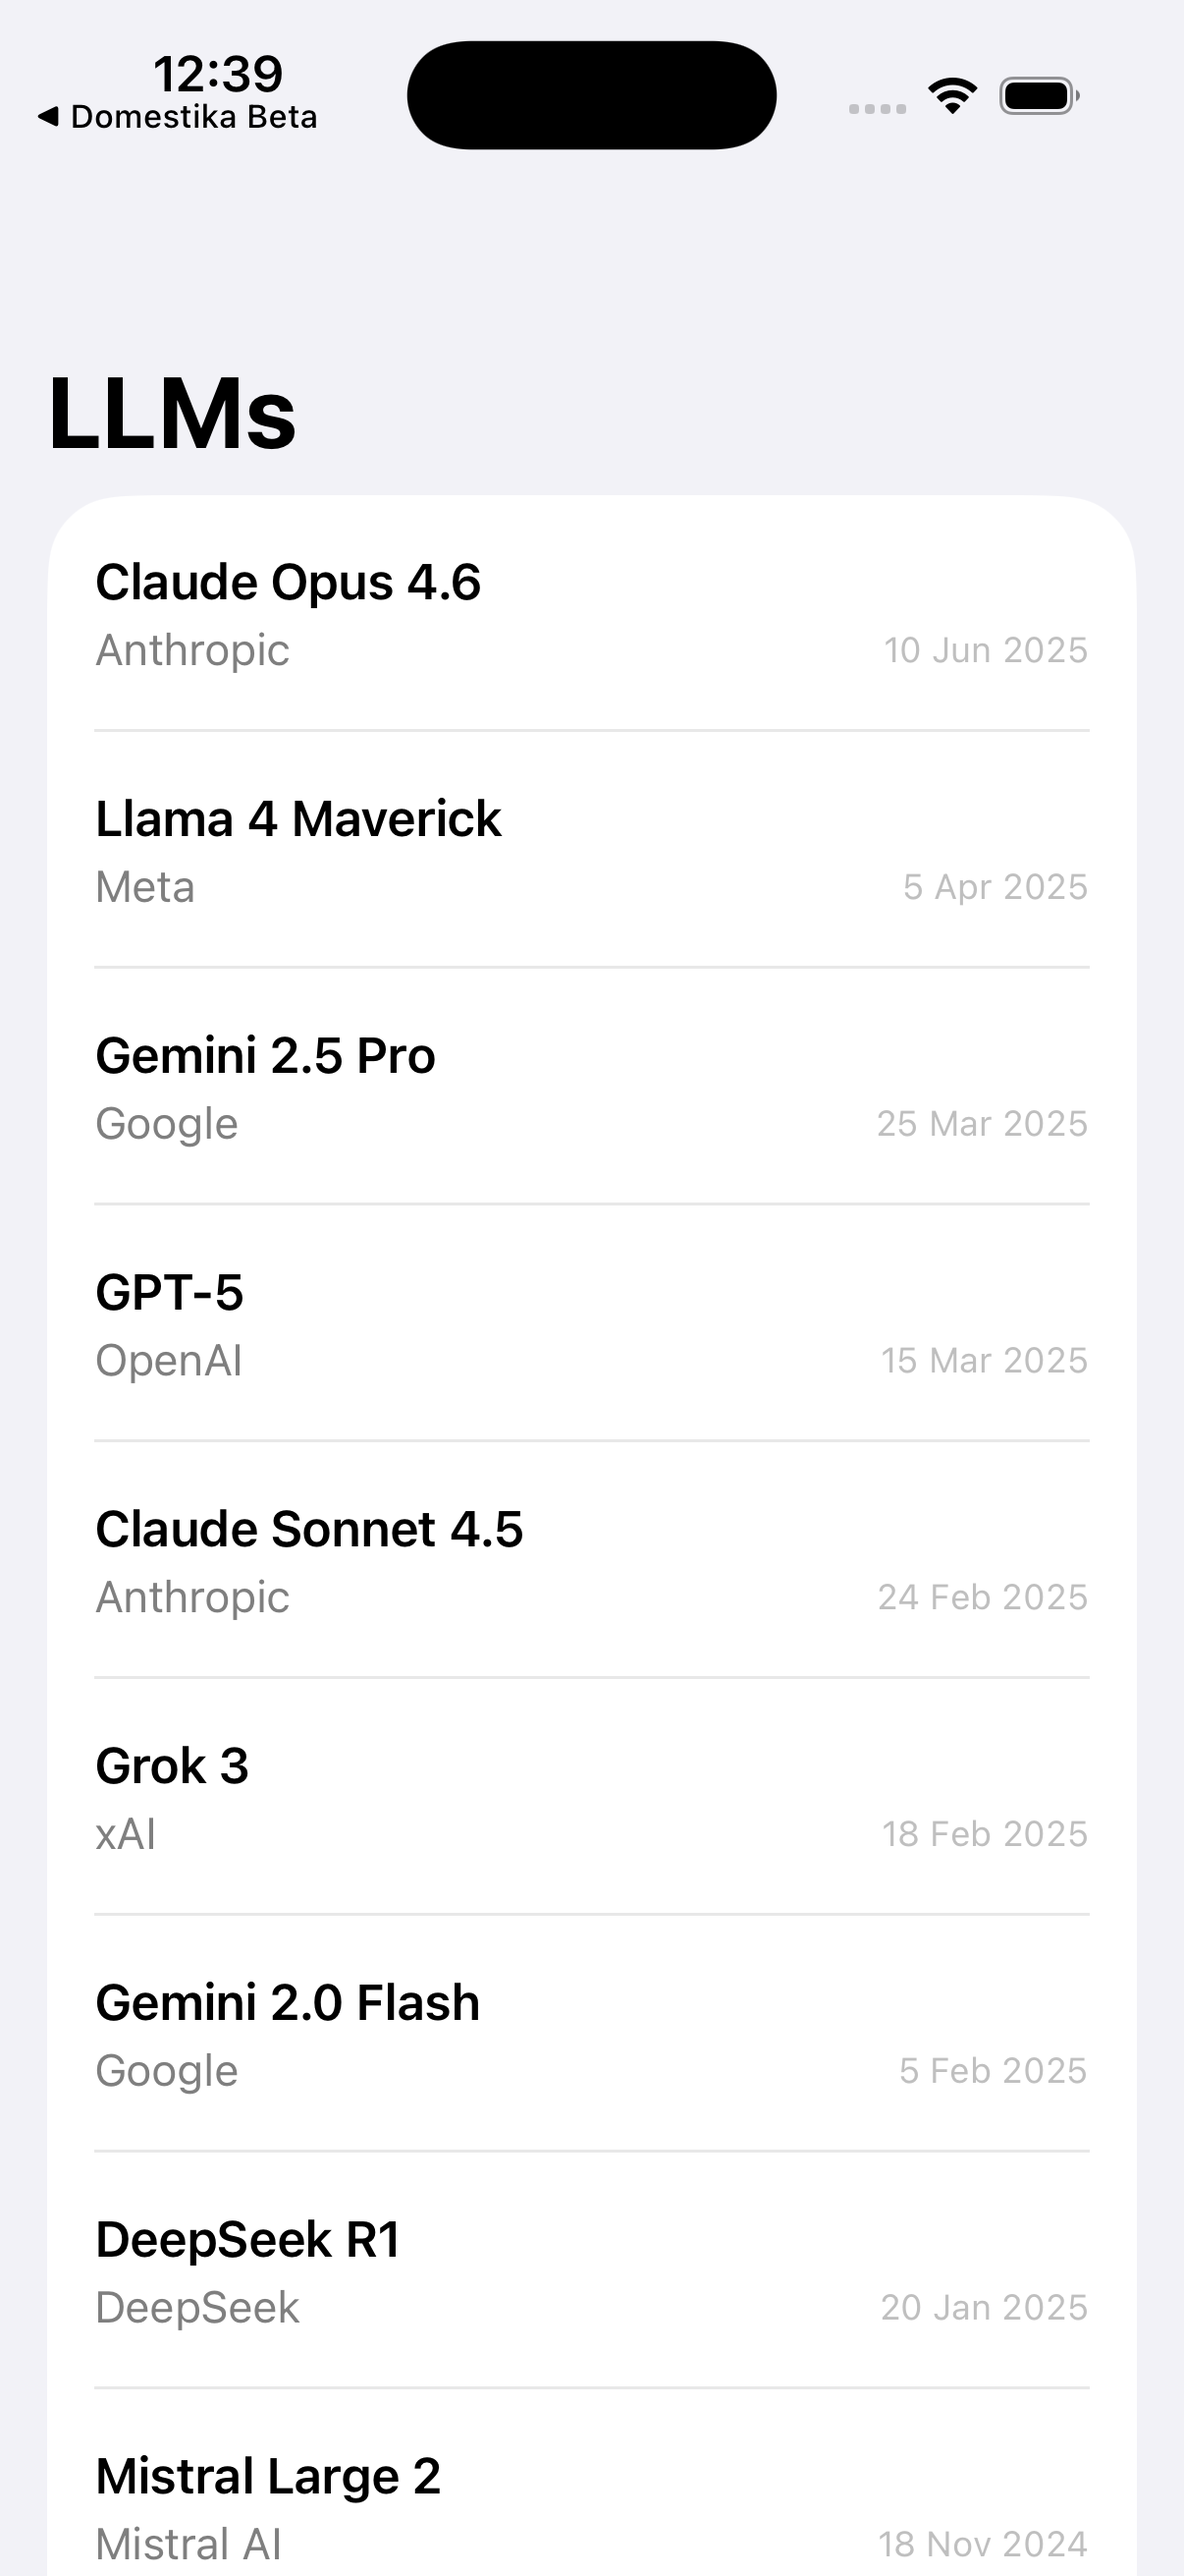
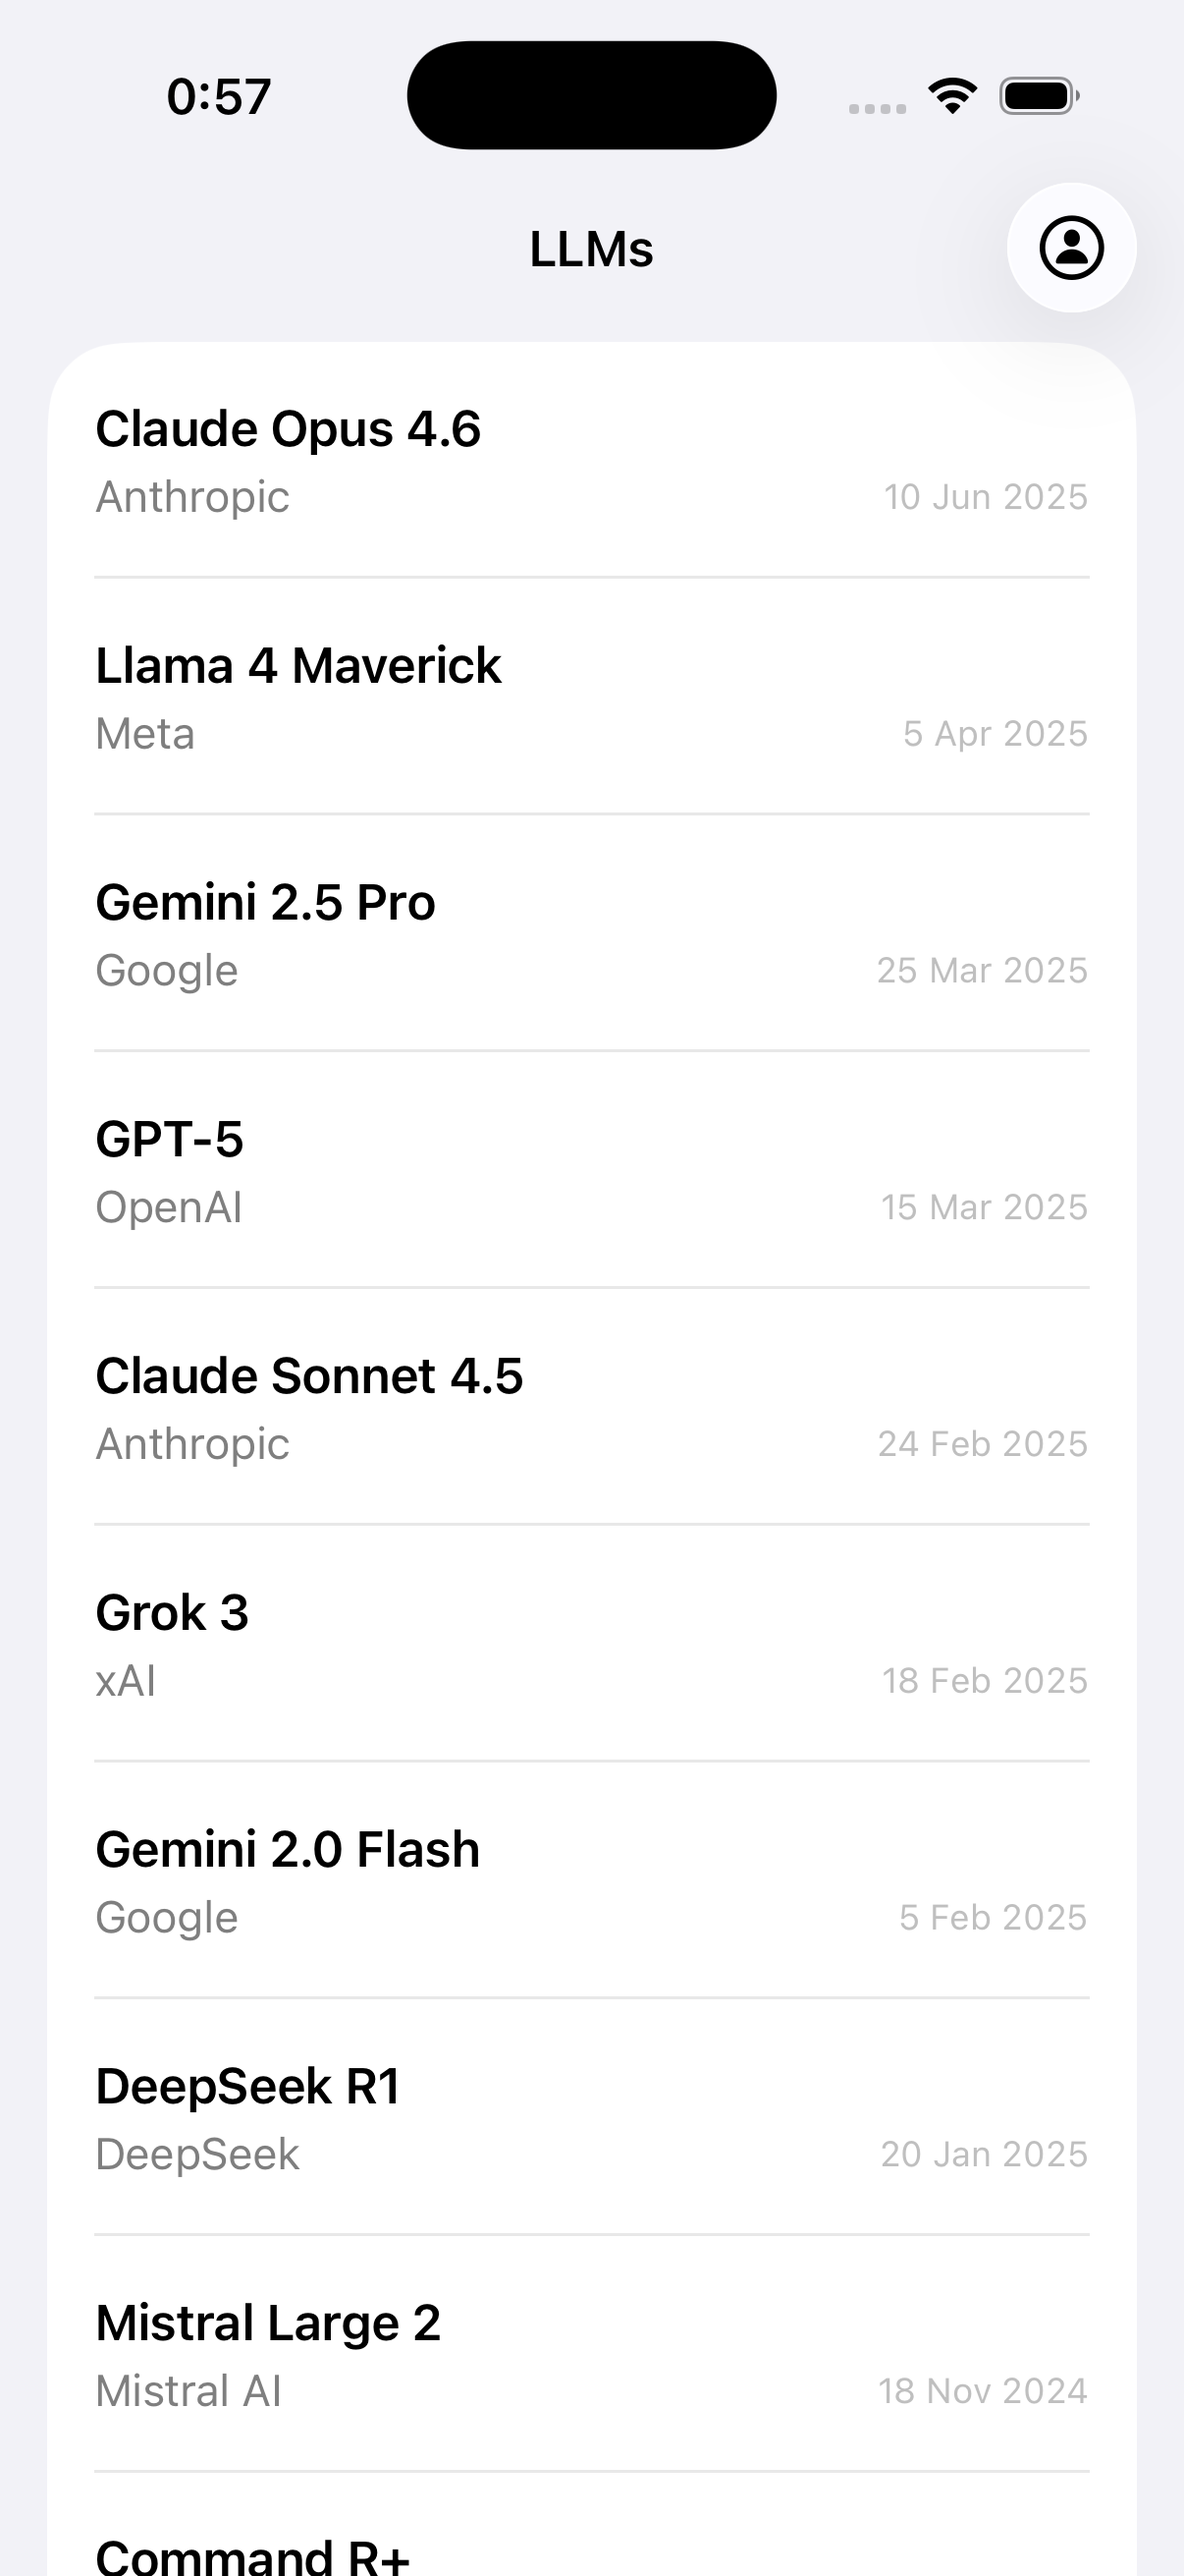
Update screenshots and README to reflect current UI
Screenshots now show the inline nav bar with profile button on the list
screen and the LLM detail view.

diff --git a/README.md b/README.md
@@ -4,8 +4,8 @@ iPhone app that displays a curated list of Large Language Models (LLMs) with det
 
 ## Screenshots
 
-| List | List (scrolled) |
-|------|-----------------|
+| List | Detail |
+|------|--------|
 | <img src="screenshots/screenshot1.png" width="300"> | <img src="screenshots/screenshot2.png" width="300"> |
 
 ## Architecture
